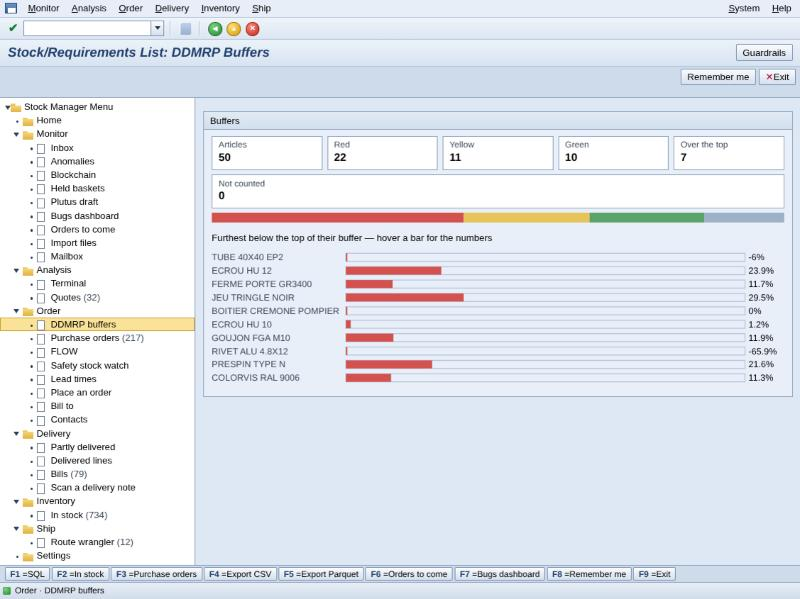
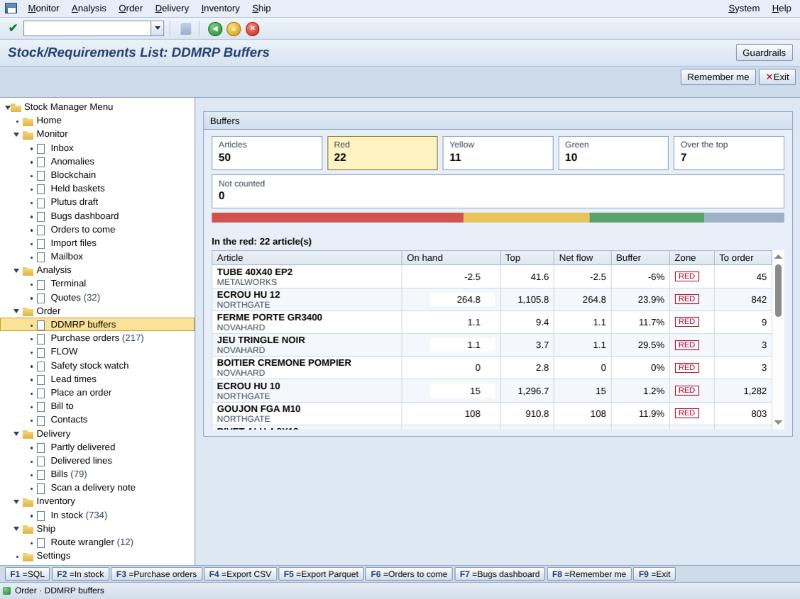
README: new buffers screenshot showing the zone list

Changed region(s): [[0.25, 0.3907, 1.0, 0.7212], [0.4062, 0.2104, 0.5625, 0.3005]]

diff --git a/README.md b/README.md
@@ -25,7 +25,7 @@ band that says how much you should hold given how fast it sells and how long the
 takes. Red means order now. It learns each supplier's real delivery time from your own notes,
 and it respects supplier holidays and cut-off times.
 
-![Stock buffers](stock-manager/docs/ddmrp.png)
+![Buffers: click a colour to list its articles](stock-manager/docs/ddmrp.png)
 
 **Ordering.** Turn a shortage into a purchase order, ask suppliers for quotes, compare their
 answers, and send orders by mail. A shopping basket filled in your team chat (Discord or

diff --git a/stock-manager/README.md b/stock-manager/README.md
@@ -25,7 +25,7 @@ band that says how much you should hold given how fast it sells and how long the
 takes. Red means order now. It learns each supplier's real delivery time from your own notes,
 and it respects supplier holidays and cut-off times.
 
-![Stock buffers](docs/ddmrp.png)
+![Buffers: click a colour to list its articles](docs/ddmrp.png)
 
 **Ordering.** Turn a shortage into a purchase order, ask suppliers for quotes, compare their
 answers, and send orders by mail. A shopping basket filled in your team chat (Discord or
